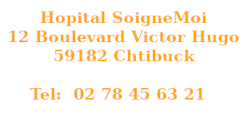
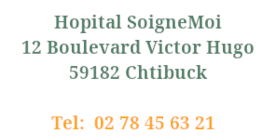
modification de couleurs

Changed region(s): [[0.028, 0.072, 0.98, 0.576], [0.28, 0.696, 0.812, 0.936], [0.112, 0.696, 0.308, 0.936]]

diff --git a/secretariat/Secretariat.py b/secretariat/Secretariat.py
@@ -3,13 +3,14 @@ import tkinter as tk
 from tkinter import ttk ## bibliothèque de widgets plus modernes tk
 from datetime import datetime
 import Frame_canevas
-from Tableau import Tableau # importer la classe Tableau du fichiet Tableau.py
+from Acquisition import Acquisition
+from Affichage_identite import Affichage_identite # importer la classe Tableau du fichiet Tableau.py
 
 class Secretariat (tk.Tk):
 
     def __init__(self):
         """Construction de la fenêtre principale"""
-        tk.Tk.__init__(self)   # constructeur de la classe parente
+        super().__init__()   # constructeur de la classe parente
         # Frame des boutons en haut - position 0,0 - éléments au centre
         self.frame_boutons = ttk.Frame(self)
         self.frame_boutons.grid(row=0, column=0)
@@ -24,30 +25,37 @@ class Secretariat (tk.Tk):
         self.label_date = ttk.Label(self.frame_boutons)
         self.label_date.pack(padx=10,pady=8)
         self.afficher_heure_courante()
-        # Framee du canvas partie intérieure de l'application
+        # Frame du canvas partie intérieure de l'application
         self.frame_canvas = Frame_canevas.Frame_canevas(self)
         self.frame_canvas.grid(row=1,column=0)
        
-    def tous(self):
-        self.tableau = Tableau(self, "Tous")
-        self.tableau.recuperation_donnees('http://127.0.0.1:8000/tous')
-        self.affichage()
+    def tous(self)->None:
+        """affichage de tous les patients"""
+        acquisition = Acquisition()
+        donnees = acquisition.recuperation_donnees_bouton('https://soignemoi.net/tous')
+        self.affichage("tous", donnees)
         
-    def sorties(self):
-        self.tableau = Tableau(self, "Sorties")
-        self.tableau.recuperation_donnees('http://127.0.0.1:8000/sorties')
-        self.affichage()
+    def sorties(self)->None:
+        """affichage de tous les patients sortants"""
+        acquisition = Acquisition()
+        donnees = acquisition.recuperation_donnees_bouton('https://soignemoi.net/sorties')
+        self.affichage("sorties", donnees)
         
-    def entrees(self):
-        self.tableau = Tableau(self, "Entrées")
-        self.tableau.recuperation_donnees('http://127.0.0.1:8000/entrees')
-        self.affichage()
+    def entrees(self)->None:
+        """affichage de tous les patients entrants"""
+        acquisition = Acquisition()
+        donnees = acquisition.recuperation_donnees_bouton('https://soignemoi.net/entrees')
+        self.affichage("entrees", donnees)
         
-    def affichage(self):
-        self.tableau.affichage_tableau()
-        self.tableau.habillage_tableau()
+    def affichage(self, titre_fenetre, patients)->None:
+        """affichage dans un tableau"""
+        affichage_identite = Affichage_identite(self, titre_fenetre, patients)
+        affichage_identite.preparation_tableau()
+        affichage_identite.affichage_donnees_tabeau()
+        affichage_identite.habillage_tableau()
         
-    def afficher_heure_courante(self):
+    def afficher_heure_courante(self)->None:
+        """affichage de l'heure courante"""
         # obtenir la date du jour
         today = datetime.now()
         # définir la date du jour

diff --git a/secretariat/Frame_canevas.py b/secretariat/Frame_canevas.py
@@ -5,19 +5,22 @@ from PIL import Image, ImageTk
 class Frame_canevas(ttk.Frame):
     
     def __init__(self, master):
-        ttk.Frame.__init__(self, master) # initialisation de la classe parente
+        # initialisation de la classe parente
+        super().__init__(master)
         self.canvas = tk.Canvas(self, width=600, height=400, bg="white")
         self.canvas.pack()
         self.master = master
+        # photo 1
+        # créer l'manfe avec la methode creer_image
         self.photo1 = self.creer_image("images/secretaire_300_300.png")
         # ajouter une photo au canevas
         self.canvas.create_image(20, 50, anchor='nw', image=self.photo1)
+        # photo2
         self.photo2 = self.creer_image("images/logo_120_120.png")
-        # ajouter une photo au canevas
-        self.canvas.create_image(390, 210, anchor='nw', image=self.photo2)
+        self.canvas.create_image(390, 220, anchor='nw', image=self.photo2)
+        # photo3
         self.photo3 = self.creer_image("images/adresse.png")
-        # ajouter une photo au canevas
-        self.canvas.create_image(330, 75, anchor='nw', image=self.photo3)
+        self.canvas.create_image(320, 60, anchor='nw', image=self.photo3)
        
     def creer_image(self, image_a_afficher):
         # Charger une image avec Pillow
